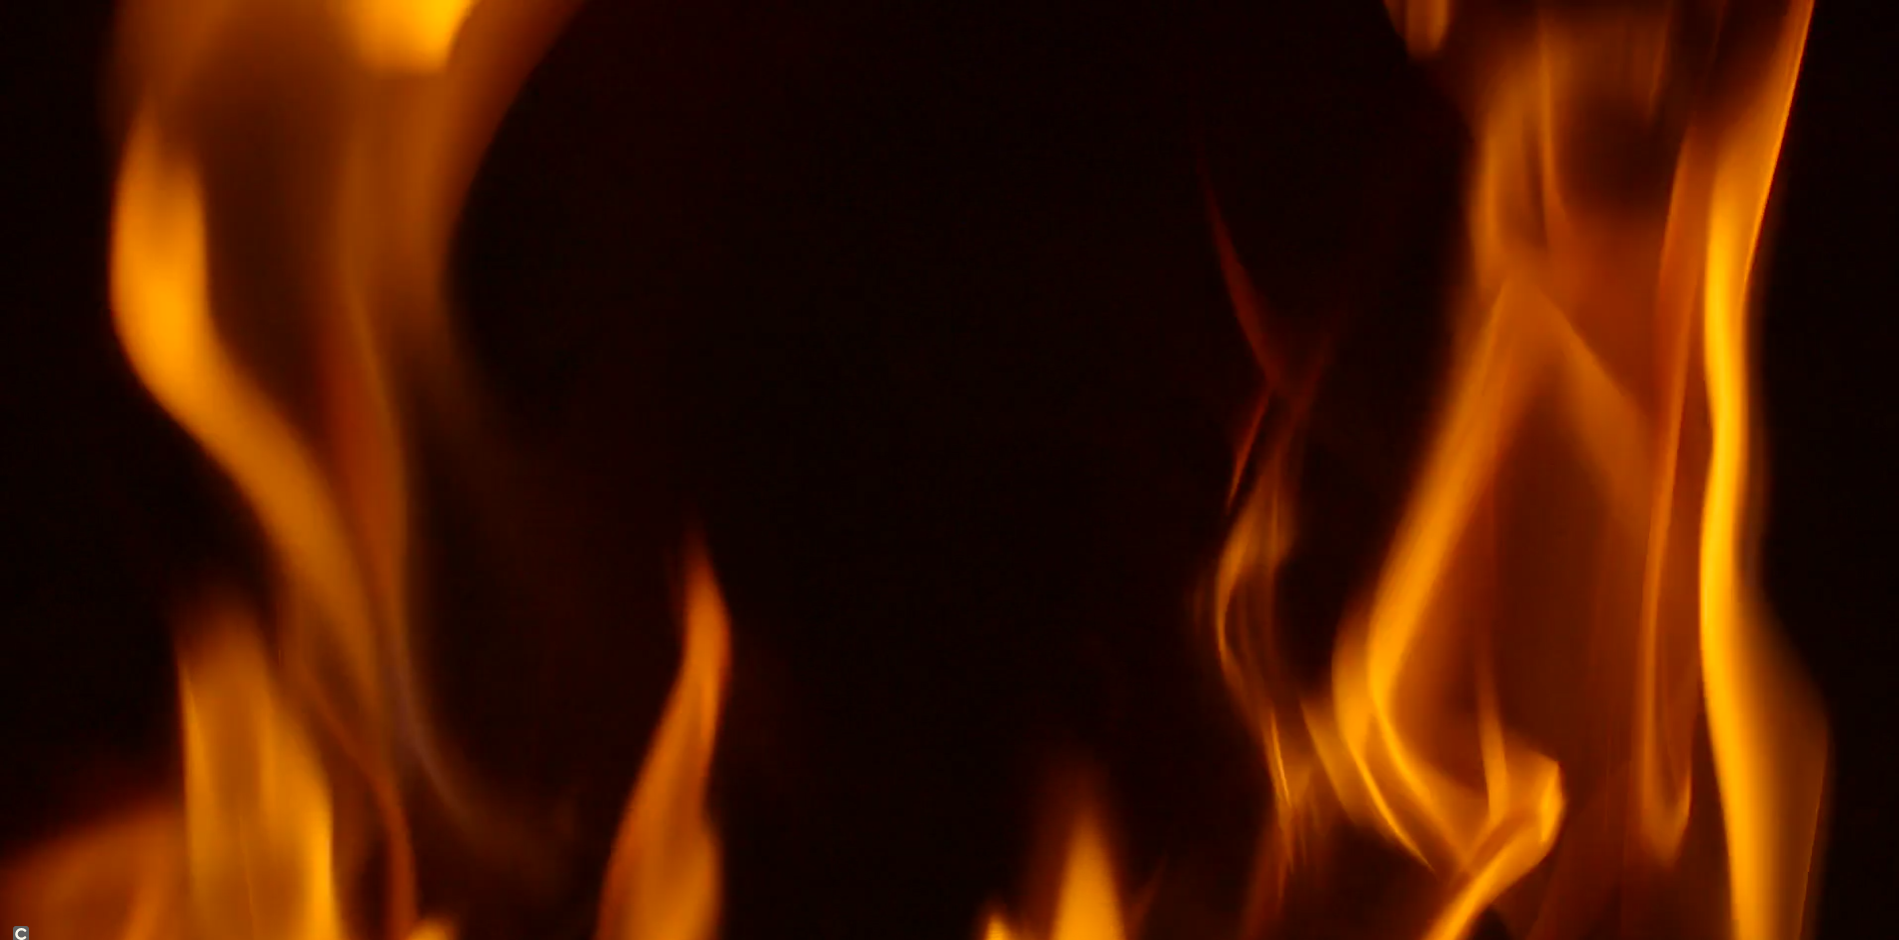
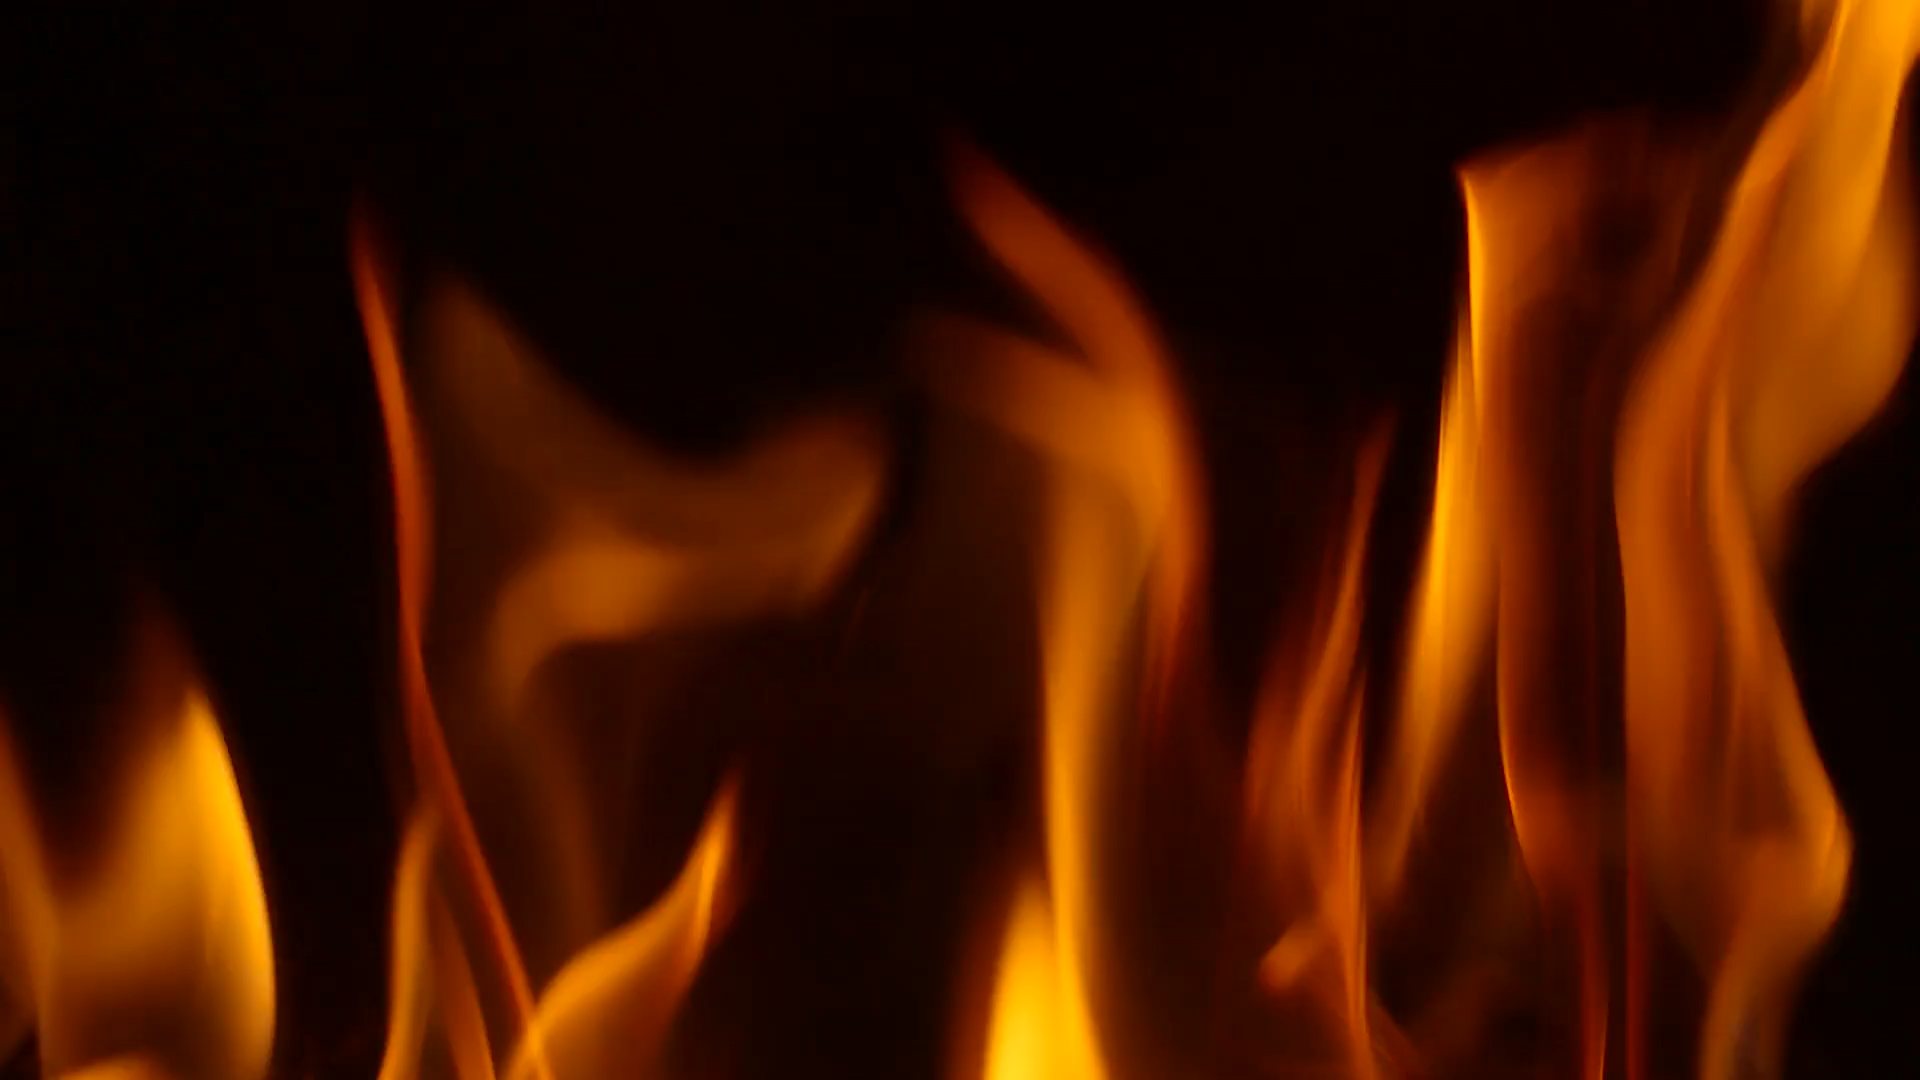
new poster image

diff --git a/assets/scss/partials/home.scss b/assets/scss/partials/home.scss
@@ -4,7 +4,7 @@
   overflow: hidden;
   width: 100%;
   height: 100vh;
-  background-image: url("../img/poster.png");
+  background-image: url("../img/poster-min.jpg");
   background-size: cover;
 }
 .bg-video-wrap iframe {
